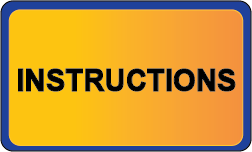
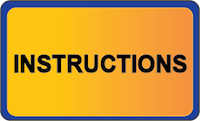
fixed size of menu buttons, problem with adding to list of buttons for menu, and got menu screen up for main

diff --git a/src/MenuState.java b/src/MenuState.java
@@ -27,7 +27,7 @@ public class MenuState extends BasicGameState {
     private final String quitSelected = "res/menu/QuitButton.png";
     private final String quitUnselected = "res/menu/QuitButtonSelected.png";
     private final String bgPath = "res/menu/MenuBG.png";
-    private Image bg;
+    private Image bg, playUs, playS, instructionsUs, instructionsS, quitUs, quitS;
 
     public MenuState(int stateID, int startingX, int startingY, int spaceBetweenItems)
     {
@@ -36,6 +36,7 @@ public class MenuState extends BasicGameState {
         this.startingX = startingX;
         this.startingY = startingY;
         this.spaceBetweenItems = spaceBetweenItems;
+
     }
 
     private void initMenu(GameContainer gc)
@@ -43,7 +44,6 @@ public class MenuState extends BasicGameState {
         mainMenu = new Menu(startingX, startingY, spaceBetweenItems);
 
         // create images for each button
-        Image playUs, playS, instructionsUs, instructionsS, quitUs, quitS;
         try
         {
             playUs = new Image(playUnselected);
@@ -78,21 +78,24 @@ public class MenuState extends BasicGameState {
     {
         try
         {
+
             bg = new Image(bgPath);
+            initMenu(gc);
         }
         catch(SlickException ex)
         {
             ex.printStackTrace();
             return;
         }
-        initMenu(gc);
-
     }
 
     public void render(GameContainer gc, StateBasedGame sbg, Graphics g)
     {
         // put background image on screen
          g.drawImage(bg,0,0);
+         g.drawImage(playUs, startingX, startingY);
+         g.drawImage(instructionsUs, startingX, startingY + 131);
+         g.drawImage(quitUs, startingX, startingY + 2*131);
     }
 
     public void update(GameContainer gc, StateBasedGame sbg, int delta)

diff --git a/src/GauchoRunner.java b/src/GauchoRunner.java
@@ -2,15 +2,22 @@ import org.newdawn.slick.*;
 import org.newdawn.slick.state.StateBasedGame;
 
 public class GauchoRunner extends StateBasedGame{
-
+      private static final int MAINMENUSTATEID = 0;
+      private static final int PLAYSTATEID = 1;
+      private static AppGameContainer app;
 //    private TiledMap map;
 //    private Camera camera;
 //    private Player player;
 //    private final String MAPPATH = "res/map/DemoMap.tmx";
-    private static AppGameContainer app;
+
 
     public GauchoRunner(){
         super("Gaucho Runner");
+        MenuState menuState = new MenuState(MAINMENUSTATEID, 300, 180, 30);
+        this.addState(menuState);
+        PlayState playState = new PlayState(PLAYSTATEID);
+        this.addState(playState);
+        this.enterState(MAINMENUSTATEID);
     }
 
 	public static void main(String[] argv) {

diff --git a/src/Menu.java b/src/Menu.java
@@ -31,7 +31,15 @@ public class Menu {
         // create new MouseOverArea based on input
         // get Y of last item in the list - so we can set the Y position of the next menu item
         // in relation to it
-        int finalItemY = items.get(items.size() - 1).getY();
+        int finalItemY;
+        if(items.size() == 0)
+        {
+            finalItemY = startingY;
+        }
+        else
+        {
+            finalItemY = items.get(items.size()-1).getY();
+        }
         items.add(new MouseOverArea(container, normalImage, startingX, finalItemY + spaceBetweenItems/*, listener*/));
         // set mouseOver image to be image that appears when button mousedOver for button just added in list
         items.get(items.size()-1).setMouseOverImage(mouseOverImage);

diff --git a/src/PlayState.java b/src/PlayState.java
@@ -21,6 +21,12 @@ public class PlayState extends BasicGameState{
 
     private int stateID;
 
+    public PlayState(int stateID)
+    {
+        super();
+        this.stateID = stateID;
+    }
+
     @Override
     public void init(GameContainer gc, StateBasedGame sbg) throws SlickException {
         Image playerImage = new Image("res/character/bike.png");
